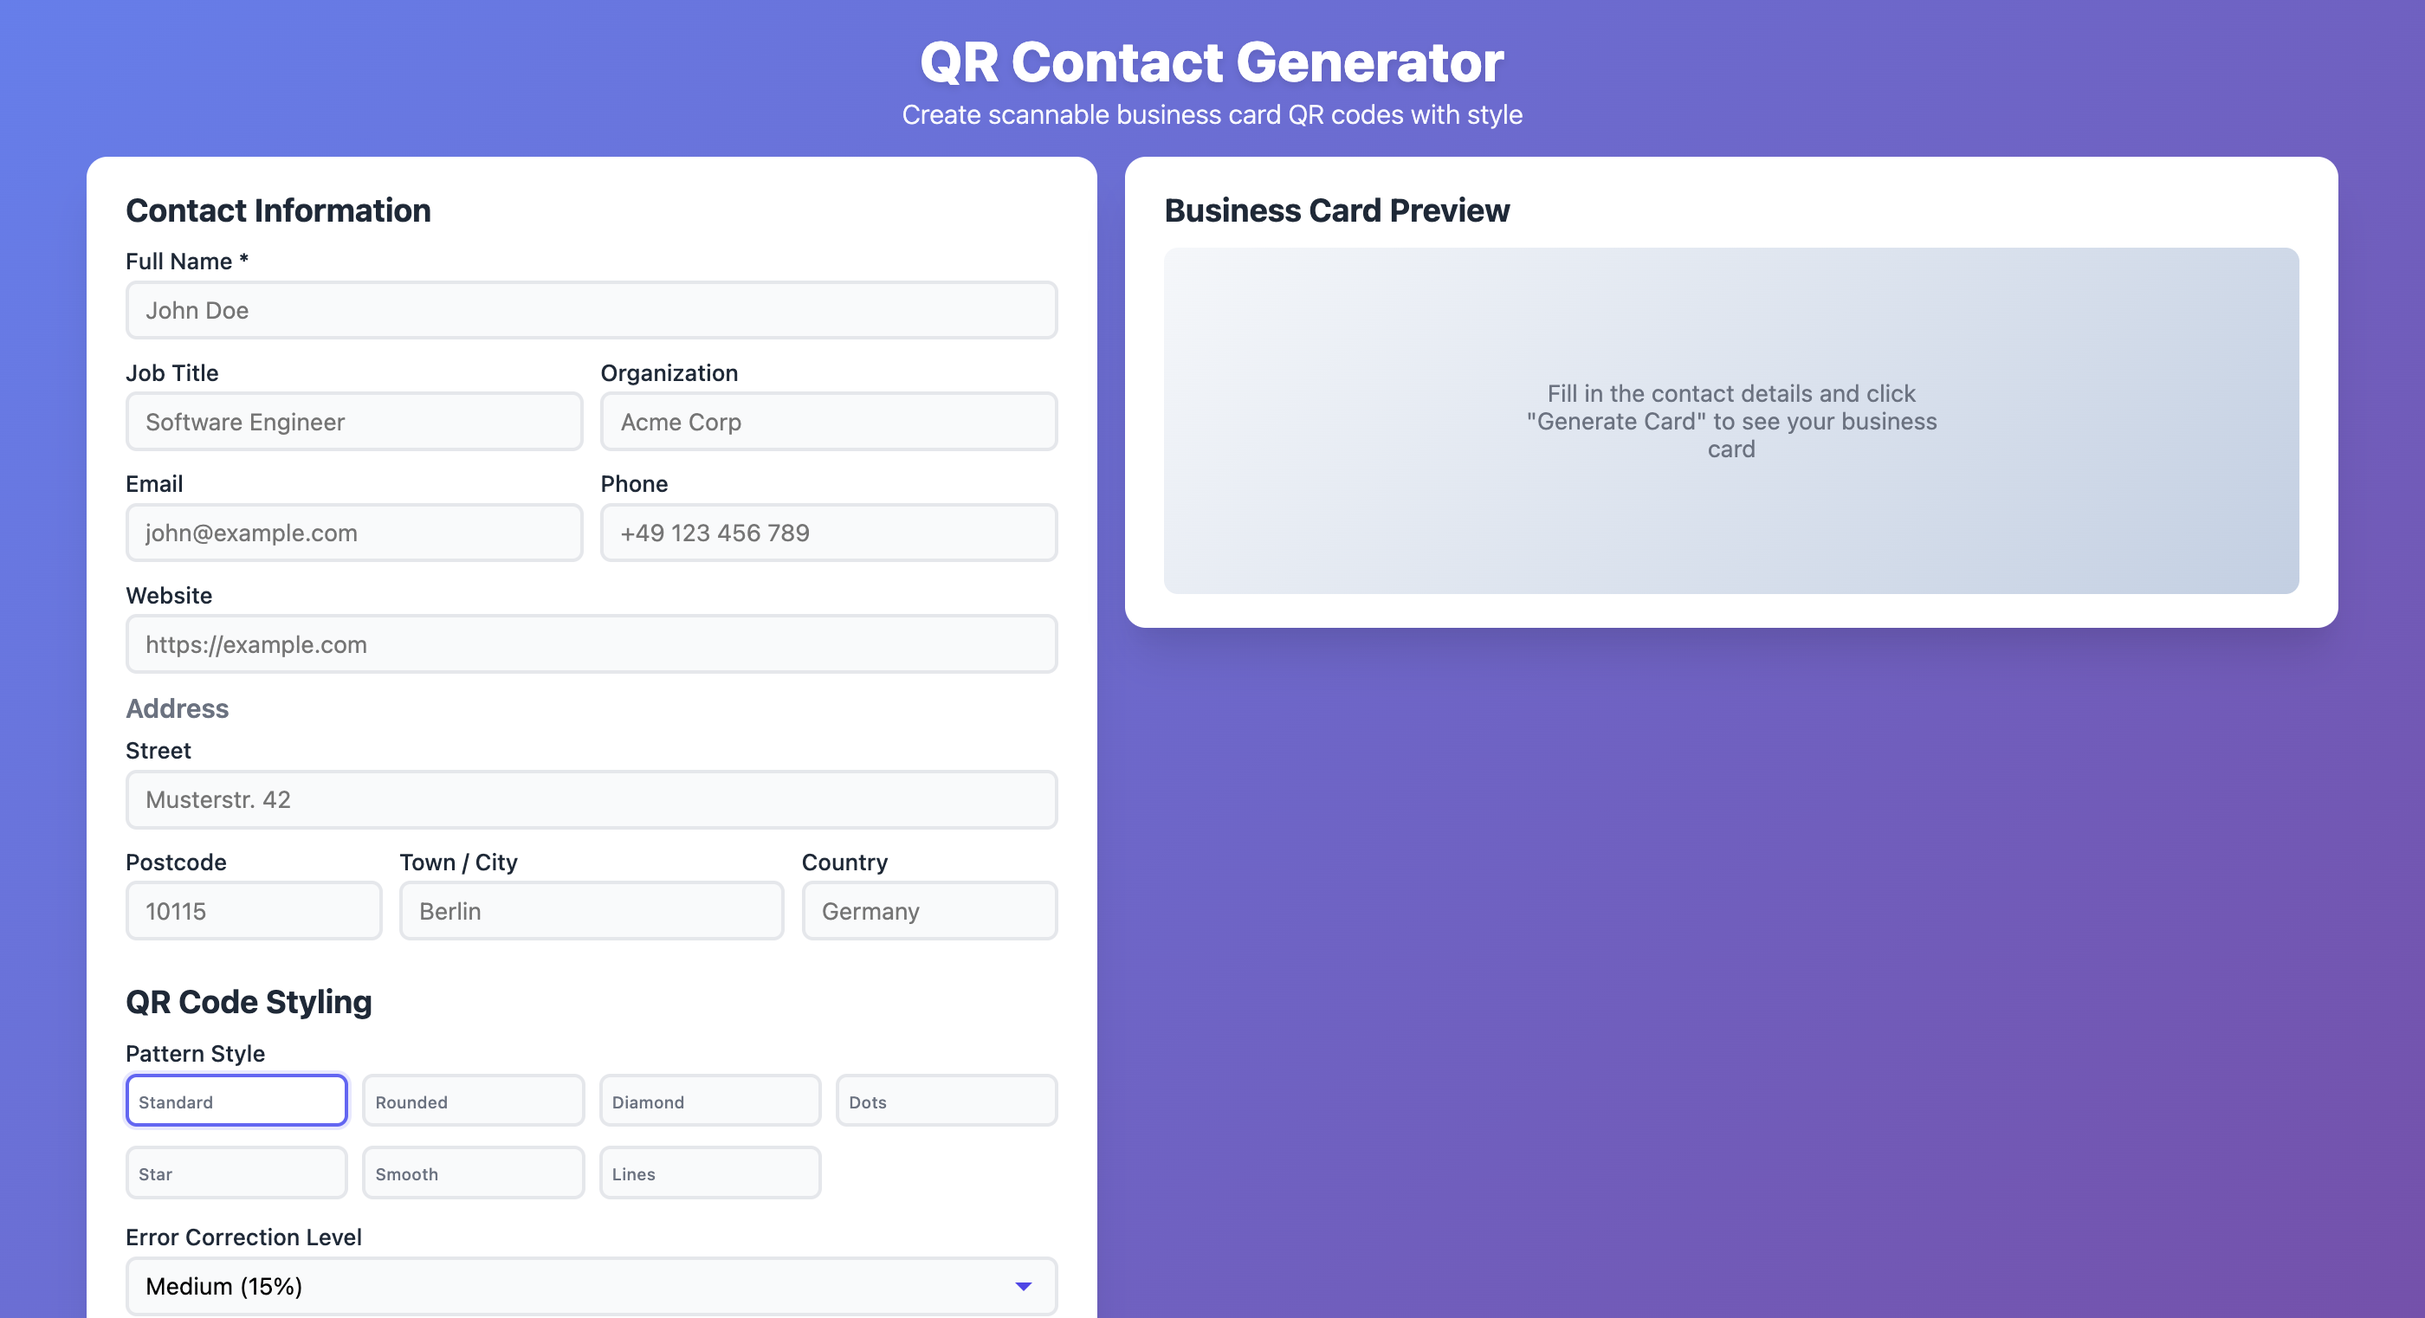
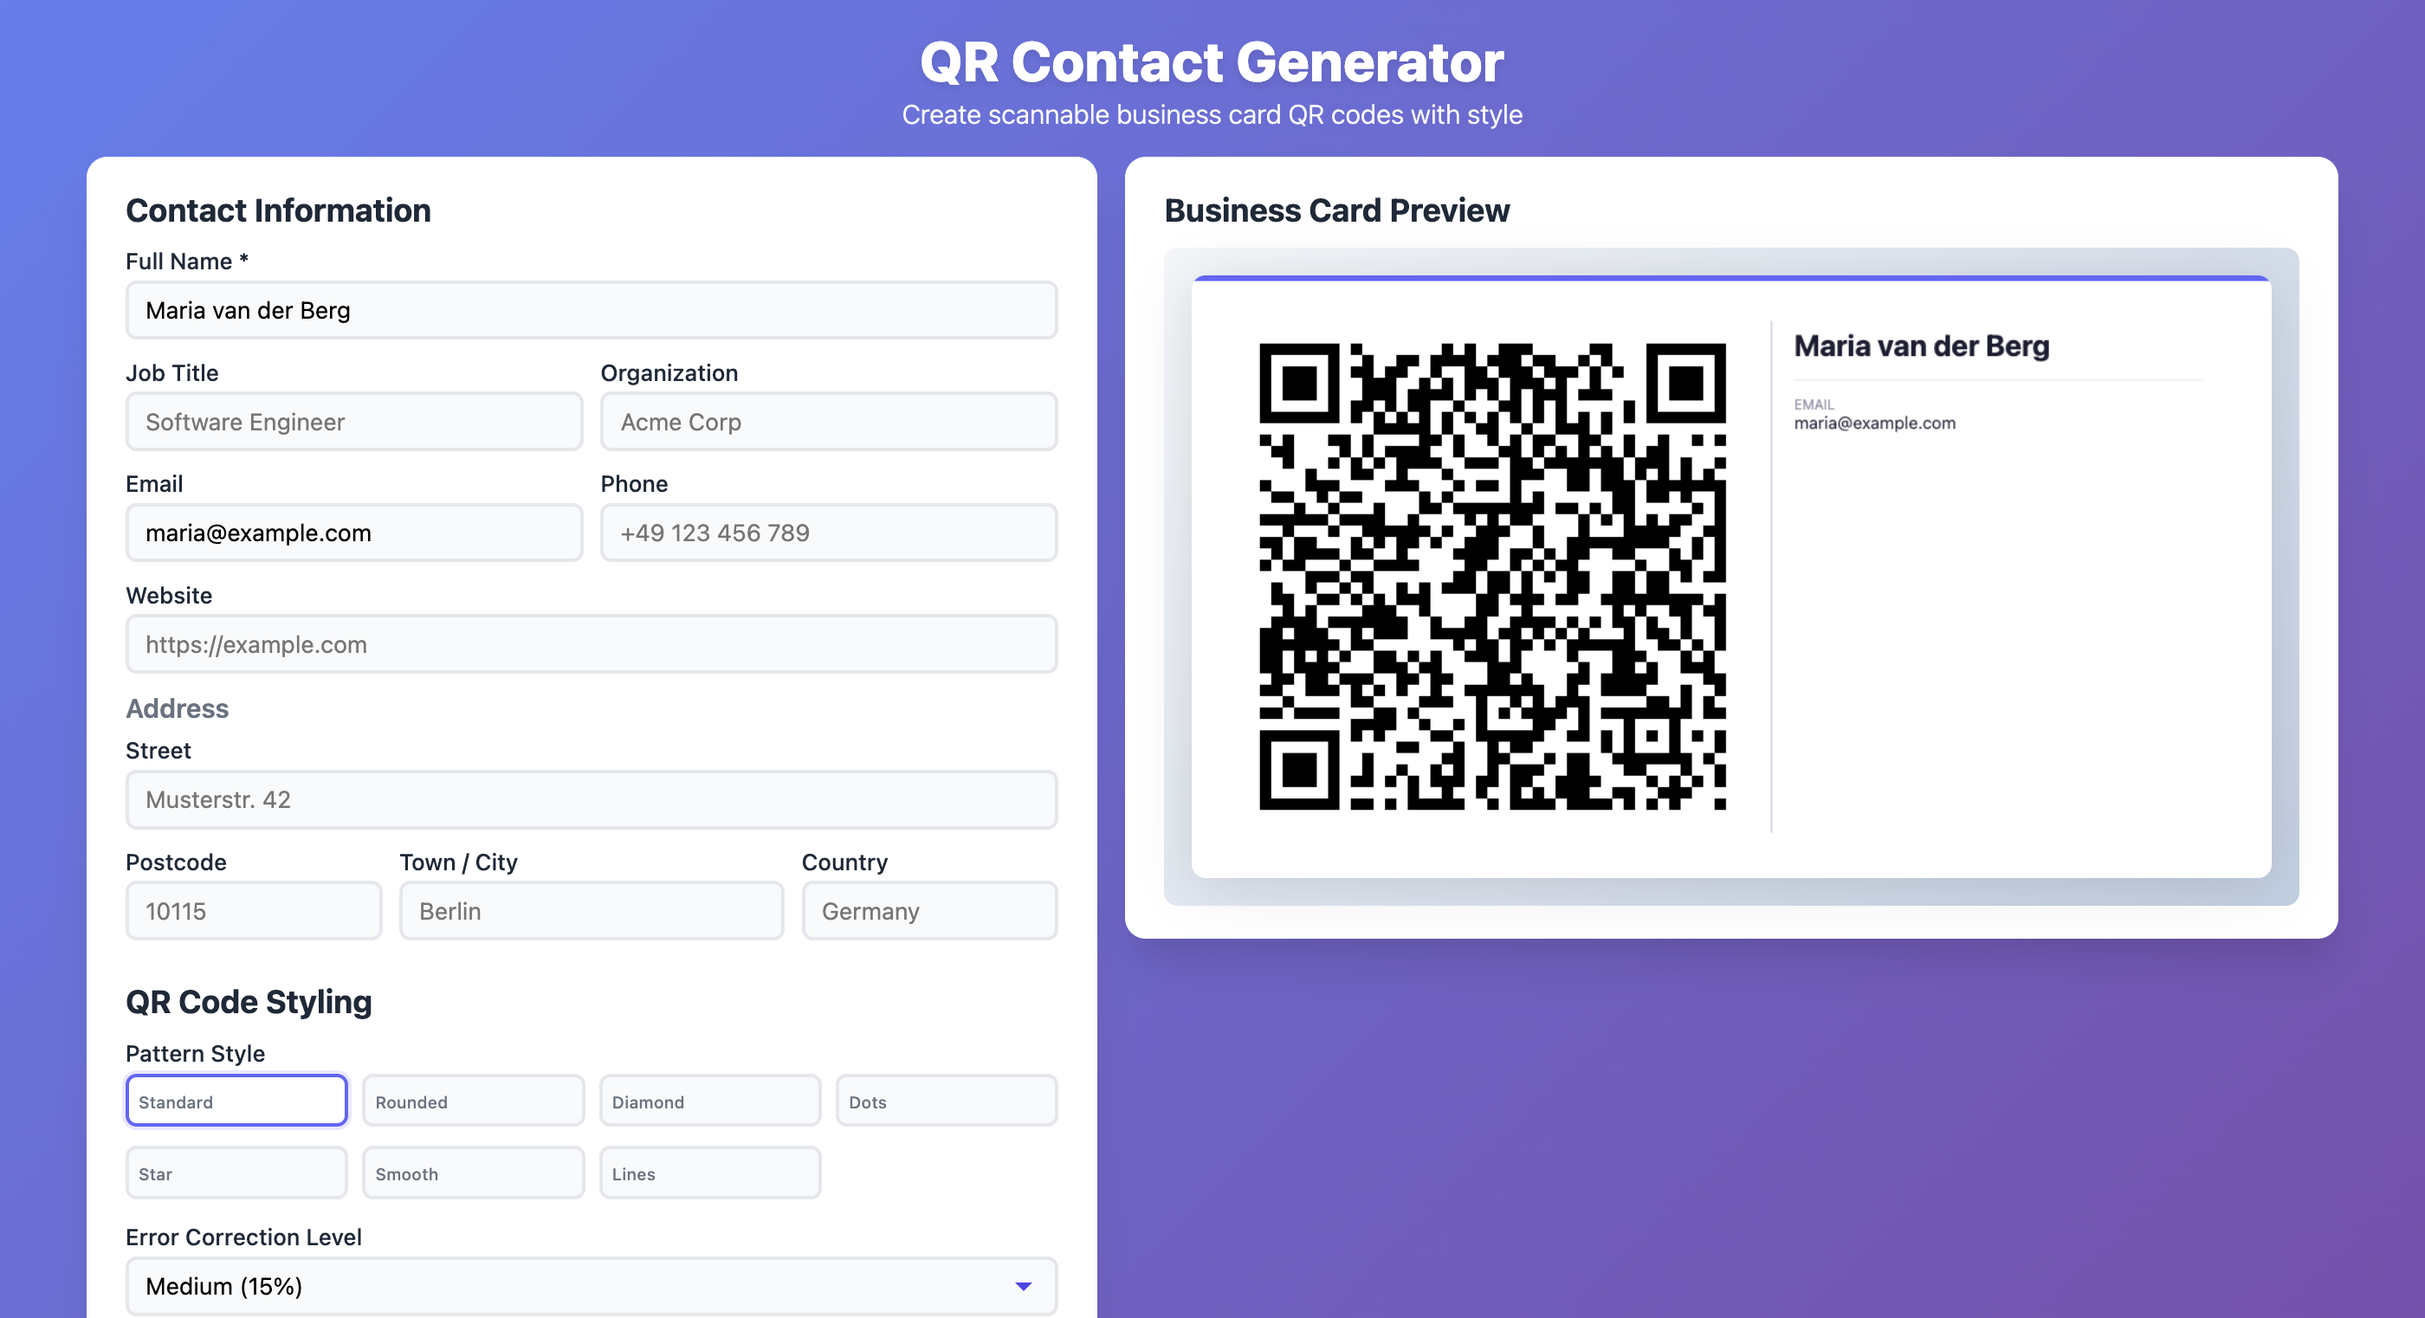
Fix vCard bugs, add error handling, improve accessibility
- Fix vCard name parsing for multi-part names (e.g. "Maria van der Berg")
- Add vCard escaping for semicolons, commas, backslashes
- Add TEL;TYPE=CELL for better scanner compatibility
- Add try/catch around QR generation with user-facing error message
- Add text ellipsis on business card to prevent overflow
- Support 3-digit hex colors in hexToRgb
- Simplify shadow rendering using native Canvas shadow API
- Rename applyColorTransition → applyColorGradient
- Add ARIA roles and keyboard navigation to pattern grid
- Remove unused loading indicator

Changed region(s): [[0.4661, 0.1853, 0.9632, 0.7102], [0.0621, 0.4014, 0.1554, 0.4323], [0.0621, 0.2162, 0.1554, 0.247]]

diff --git a/index.html b/index.html
@@ -430,28 +430,6 @@ h3 {
     filter: drop-shadow(0 4px 16px rgba(0, 0, 0, 0.12));
 }
 
-.loading {
-    display: flex;
-    flex-direction: column;
-    align-items: center;
-    gap: 1rem;
-    position: absolute;
-    top: 50%;
-    left: 50%;
-    transform: translate(-50%, -50%);
-}
-
-.spinner {
-    width: 36px;
-    height: 36px;
-    border: 3px solid var(--border);
-    border-top-color: var(--primary);
-    border-radius: 50%;
-    animation: spin 1s linear infinite;
-}
-
-@keyframes spin { to { transform: rotate(360deg); } }
-
 @keyframes slideDown {
     from { opacity: 0; transform: translateY(-30px); }
     to   { opacity: 1; transform: translateY(0); }
@@ -576,38 +554,38 @@ select {
 
                     <div class="form-group">
                         <label for="patternStyle">Pattern Style</label>
-                        <div class="pattern-grid">
-                            <label class="pattern-option selected" data-value="standard">
+                        <div class="pattern-grid" role="radiogroup" aria-label="Pattern Style">
+                            <label class="pattern-option selected" data-value="standard" role="radio" aria-checked="true" tabindex="0">
                                 <input type="radio" name="patternStyle" value="standard" checked>
                                 <span class="pattern-preview pattern-standard"></span>
                                 <span class="pattern-label">Standard</span>
                             </label>
-                            <label class="pattern-option" data-value="rounded">
+                            <label class="pattern-option" data-value="rounded" role="radio" aria-checked="false" tabindex="0">
                                 <input type="radio" name="patternStyle" value="rounded">
                                 <span class="pattern-preview pattern-rounded"></span>
                                 <span class="pattern-label">Rounded</span>
                             </label>
-                            <label class="pattern-option" data-value="diamond">
+                            <label class="pattern-option" data-value="diamond" role="radio" aria-checked="false" tabindex="0">
                                 <input type="radio" name="patternStyle" value="diamond">
                                 <span class="pattern-preview pattern-diamond"></span>
                                 <span class="pattern-label">Diamond</span>
                             </label>
-                            <label class="pattern-option" data-value="dots">
+                            <label class="pattern-option" data-value="dots" role="radio" aria-checked="false" tabindex="0">
                                 <input type="radio" name="patternStyle" value="dots">
                                 <span class="pattern-preview pattern-dots"></span>
                                 <span class="pattern-label">Dots</span>
                             </label>
-                            <label class="pattern-option" data-value="star">
+                            <label class="pattern-option" data-value="star" role="radio" aria-checked="false" tabindex="0">
                                 <input type="radio" name="patternStyle" value="star">
                                 <span class="pattern-preview pattern-star"></span>
                                 <span class="pattern-label">Star</span>
                             </label>
-                            <label class="pattern-option" data-value="smooth">
+                            <label class="pattern-option" data-value="smooth" role="radio" aria-checked="false" tabindex="0">
                                 <input type="radio" name="patternStyle" value="smooth">
                                 <span class="pattern-preview pattern-smooth"></span>
                                 <span class="pattern-label">Smooth</span>
                             </label>
-                            <label class="pattern-option" data-value="horizontal">
+                            <label class="pattern-option" data-value="horizontal" role="radio" aria-checked="false" tabindex="0">
                                 <input type="radio" name="patternStyle" value="horizontal">
                                 <span class="pattern-preview pattern-horizontal"></span>
                                 <span class="pattern-label">Lines</span>
@@ -679,10 +657,6 @@ select {
                             <p>Fill in the contact details and click "Generate Card" to see your business card</p>
                         </div>
                     </div>
-                    <div id="loadingIndicator" class="loading" style="display: none;">
-                        <div class="spinner"></div>
-                        <p>Generating...</p>
-                    </div>
                 </div>
             </div>
         </div>
@@ -709,7 +683,6 @@ const FONT_FAMILY = '-apple-system, BlinkMacSystemFont, "Segoe UI", Roboto, "Hel
 const generateBtn = document.getElementById('generateBtn');
 const downloadBtn = document.getElementById('downloadBtn');
 const previewContainer = document.getElementById('previewContainer');
-const loadingIndicator = document.getElementById('loadingIndicator');
 const colorTransitionCheckbox = document.getElementById('colorTransition');
 const colorOptions = document.getElementById('colorOptions');
 
@@ -781,13 +754,22 @@ function handleLogoFile(file) {
 }
 
 // ── Pattern grid ─────────────────────────────────────────────
+function selectPattern(option) {
+    document.querySelectorAll('.pattern-option').forEach(o => {
+        o.classList.remove('selected');
+        o.setAttribute('aria-checked', 'false');
+    });
+    option.classList.add('selected');
+    option.setAttribute('aria-checked', 'true');
+    option.querySelector('input[type="radio"]').checked = true;
+    selectedPattern = option.dataset.value;
+    triggerGenerate();
+}
+
 document.querySelectorAll('.pattern-option').forEach(option => {
-    option.addEventListener('click', () => {
-        document.querySelectorAll('.pattern-option').forEach(o => o.classList.remove('selected'));
-        option.classList.add('selected');
-        option.querySelector('input[type="radio"]').checked = true;
-        selectedPattern = option.dataset.value;
-        triggerGenerate();
+    option.addEventListener('click', () => selectPattern(option));
+    option.addEventListener('keydown', (e) => {
+        if (e.key === ' ' || e.key === 'Enter') { e.preventDefault(); selectPattern(option); }
     });
 });
 
@@ -820,22 +802,29 @@ formInputs.forEach(input => {
 });
 
 // ── vCard ────────────────────────────────────────────────────
+function escapeVCard(s) {
+    return s.replace(/\\/g, '\\\\')
+            .replace(/;/g, '\\;')
+            .replace(/,/g, '\\,')
+            .replace(/\n/g, '\\n');
+}
+
 function generateVCard(c) {
     let v = 'BEGIN:VCARD\nVERSION:3.0\n';
     if (c.name) {
-        const parts = c.name.split(' ', 2);
-        v += parts.length === 2
-            ? `N:${parts[1]};${parts[0]};;;\n`
-            : `N:${parts[0]};;;;\n`;
-        v += `FN:${c.name}\n`;
+        const parts = c.name.trim().split(/\s+/);
+        const last = parts.pop();
+        const first = parts.join(' ');
+        v += `N:${escapeVCard(last)};${escapeVCard(first)};;;\n`;
+        v += `FN:${escapeVCard(c.name)}\n`;
     }
-    if (c.phone) v += `TEL:${c.phone}\n`;
-    if (c.email) v += `EMAIL:${c.email}\n`;
-    if (c.organization) v += `ORG:${c.organization}\n`;
-    if (c.title) v += `TITLE:${c.title}\n`;
+    if (c.phone) v += `TEL;TYPE=CELL:${escapeVCard(c.phone)}\n`;
+    if (c.email) v += `EMAIL:${escapeVCard(c.email)}\n`;
+    if (c.organization) v += `ORG:${escapeVCard(c.organization)}\n`;
+    if (c.title) v += `TITLE:${escapeVCard(c.title)}\n`;
     if (c.url) v += `URL:${c.url}\n`;
     if (c.street || c.town || c.postcode || c.country)
-        v += `ADR:;;${c.street || ''};${c.town || ''};;${c.postcode || ''};${c.country || ''}\n`;
+        v += `ADR:;;${escapeVCard(c.street || '')};${escapeVCard(c.town || '')};;${escapeVCard(c.postcode || '')};${escapeVCard(c.country || '')}\n`;
     v += 'END:VCARD';
     return v;
 }
@@ -935,9 +924,11 @@ function drawRoundRect(ctx, x, y, w, h, r) {
     ctx.fill();
 }
 
-// ── Color transition (diagonal gradient) ─────────────────────
+// ── Color gradient (diagonal) ────────────────────────────────
 function hexToRgb(hex) {
     hex = hex.replace('#', '');
+    if (hex.length === 3)
+        hex = hex.split('').map(c => c + c).join('');
     return [
         parseInt(hex.substring(0, 2), 16),
         parseInt(hex.substring(2, 4), 16),
@@ -945,7 +936,7 @@ function hexToRgb(hex) {
     ];
 }
 
-function applyColorTransition(canvas, darkHex, lightHex) {
+function applyColorGradient(canvas, darkHex, lightHex) {
     const c1 = hexToRgb(darkHex);
     const c2 = hexToRgb(lightHex);
     const ctx = canvas.getContext('2d');
@@ -969,42 +960,18 @@ function applyColorTransition(canvas, darkHex, lightHex) {
 }
 
 // ── Shadow ───────────────────────────────────────────────────
-function addShadow(qrCanvas, bgColor, offset, blur) {
-    offset = offset || 5;
-    blur = blur || 3;
-    const pad = 10;
-    const w = qrCanvas.width + pad * 2 + offset;
-    const h = qrCanvas.height + pad * 2 + offset;
-
-    const grey = document.createElement('canvas');
-    grey.width = qrCanvas.width;
-    grey.height = qrCanvas.height;
-    const gCtx = grey.getContext('2d');
-    gCtx.drawImage(qrCanvas, 0, 0);
-    const gData = gCtx.getImageData(0, 0, grey.width, grey.height);
-    const gd = gData.data;
-    for (let i = 0; i < gd.length; i += 4) {
-        if (gd[i + 3] > 0) {
-            gd[i]     = Math.min(255, Math.floor(gd[i] / 3) + 160);
-            gd[i + 1] = Math.min(255, Math.floor(gd[i + 1] / 3) + 160);
-            gd[i + 2] = Math.min(255, Math.floor(gd[i + 2] / 3) + 160);
-        }
-    }
-    gCtx.putImageData(gData, 0, 0);
-
+function addShadow(qrCanvas, bgColor) {
+    const pad = 16;
     const result = document.createElement('canvas');
-    result.width = w;
-    result.height = h;
+    result.width  = qrCanvas.width  + pad * 2;
+    result.height = qrCanvas.height + pad * 2;
     const ctx = result.getContext('2d');
-
     ctx.fillStyle = bgColor;
-    ctx.fillRect(0, 0, w, h);
-
-    ctx.save();
-    ctx.filter = `blur(${blur}px)`;
-    ctx.drawImage(grey, pad + offset, pad + offset);
-    ctx.restore();
-
+    ctx.fillRect(0, 0, result.width, result.height);
+    ctx.shadowColor   = 'rgba(0,0,0,0.25)';
+    ctx.shadowBlur    = 10;
+    ctx.shadowOffsetX = 4;
+    ctx.shadowOffsetY = 4;
     ctx.drawImage(qrCanvas, pad, pad);
     return result;
 }
@@ -1028,9 +995,20 @@ function addLogoToCanvas(canvas, img, sizeRatio) {
 }
 
 // ── Business card render ─────────────────────────────────────
+function fillTextEllipsis(ctx, text, x, y, maxWidth) {
+    if (ctx.measureText(text).width <= maxWidth) {
+        ctx.fillText(text, x, y);
+        return;
+    }
+    while (text.length > 0 && ctx.measureText(text + '\u2026').width > maxWidth)
+        text = text.slice(0, -1);
+    ctx.fillText(text + '\u2026', x, y);
+}
+
 function renderBusinessCard(qrCanvas, contact) {
     const padding = 40;
     const detailsWidth = 380;
+    const maxTextWidth = detailsWidth - 20;
     const qrW = qrCanvas.width;
     const qrH = qrCanvas.height;
     const cardW = padding + qrW + padding + detailsWidth + padding;
@@ -1065,7 +1043,7 @@ function renderBusinessCard(qrCanvas, contact) {
     if (contact.name) {
         ctx.font = `bold 26px ${FONT_FAMILY}`;
         ctx.fillStyle = '#1e1e32';
-        ctx.fillText(contact.name, textX, textY);
+        fillTextEllipsis(ctx, contact.name, textX, textY, maxTextWidth);
         textY += 34;
     }
 
@@ -1075,7 +1053,7 @@ function renderBusinessCard(qrCanvas, contact) {
     if (parts.length) {
         ctx.font = `16px ${FONT_FAMILY}`;
         ctx.fillStyle = '#787896';
-        ctx.fillText(parts.join(' | '), textX, textY);
+        fillTextEllipsis(ctx, parts.join(' | '), textX, textY, maxTextWidth);
         textY += 24;
     }
 
@@ -1084,7 +1062,7 @@ function renderBusinessCard(qrCanvas, contact) {
     ctx.lineWidth = 1;
     ctx.beginPath();
     ctx.moveTo(textX, textY);
-    ctx.lineTo(textX + detailsWidth - 20, textY);
+    ctx.lineTo(textX + maxTextWidth, textY);
     ctx.stroke();
     textY += 16;
 
@@ -1096,7 +1074,7 @@ function renderBusinessCard(qrCanvas, contact) {
         textY += 15;
         ctx.font = `15px ${FONT_FAMILY}`;
         ctx.fillStyle = '#323246';
-        ctx.fillText(value, textX, textY);
+        fillTextEllipsis(ctx, value, textX, textY, maxTextWidth);
         textY += 22;
     }
 
@@ -1118,7 +1096,7 @@ function renderBusinessCard(qrCanvas, contact) {
         ctx.font = `15px ${FONT_FAMILY}`;
         ctx.fillStyle = '#323246';
         for (const line of addrParts) {
-            ctx.fillText(line, textX, textY);
+            fillTextEllipsis(ctx, line, textX, textY, maxTextWidth);
             textY += 20;
         }
     }
@@ -1155,11 +1133,19 @@ function generateQRCode() {
     const darkColor = darkColorInput.value;
     const lightColor = lightColorInput.value;
 
-    const qr = createQRMatrix(vcard, errorCorrection);
+    let qr;
+    try {
+        qr = createQRMatrix(vcard, errorCorrection);
+    } catch (e) {
+        showError('Data too long for this error correction level. Try "Low (7%)".');
+        downloadBtn.disabled = true;
+        return;
+    }
+
     let qrCanvas = drawQRWithPattern(qr, selectedPattern);
 
     if (useColor) {
-        applyColorTransition(qrCanvas, darkColor, lightColor);
+        applyColorGradient(qrCanvas, darkColor, lightColor);
     }
 
     const bgColor = useColor ? lightColor : '#ffffff';
